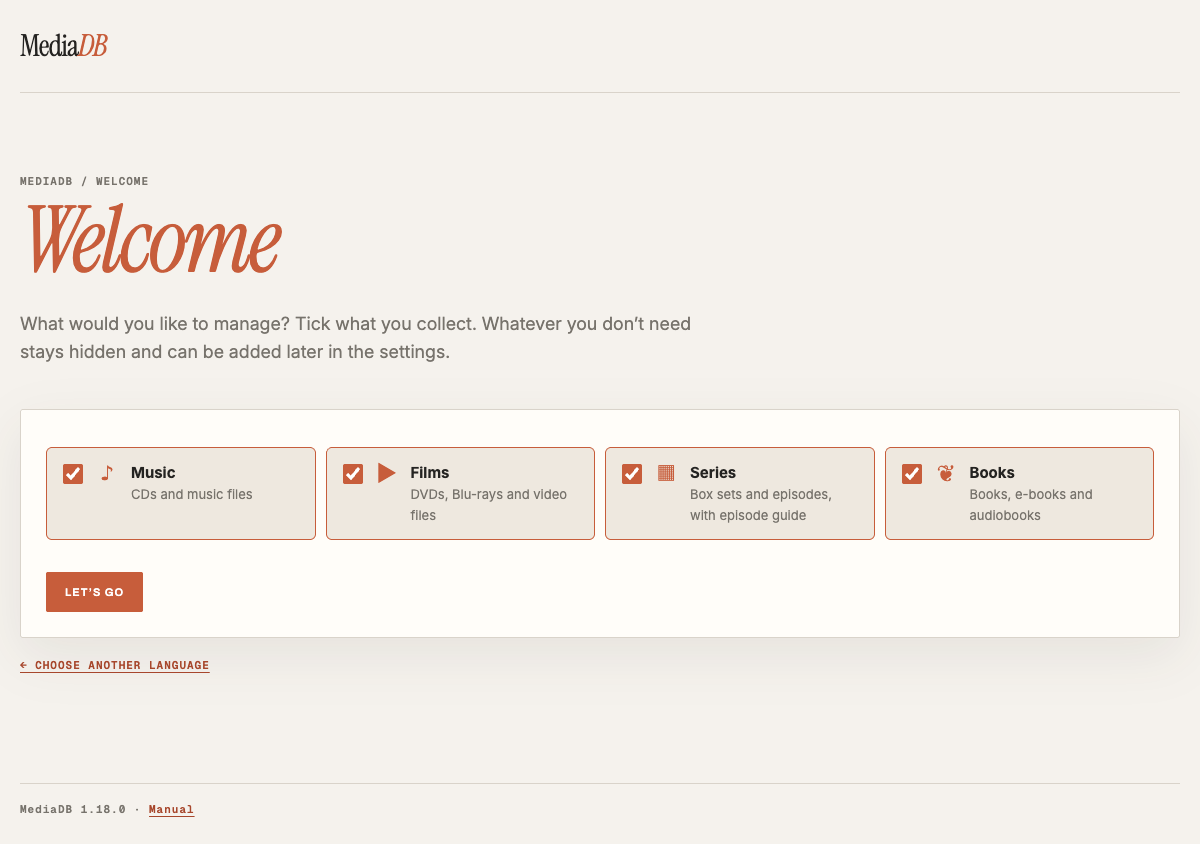
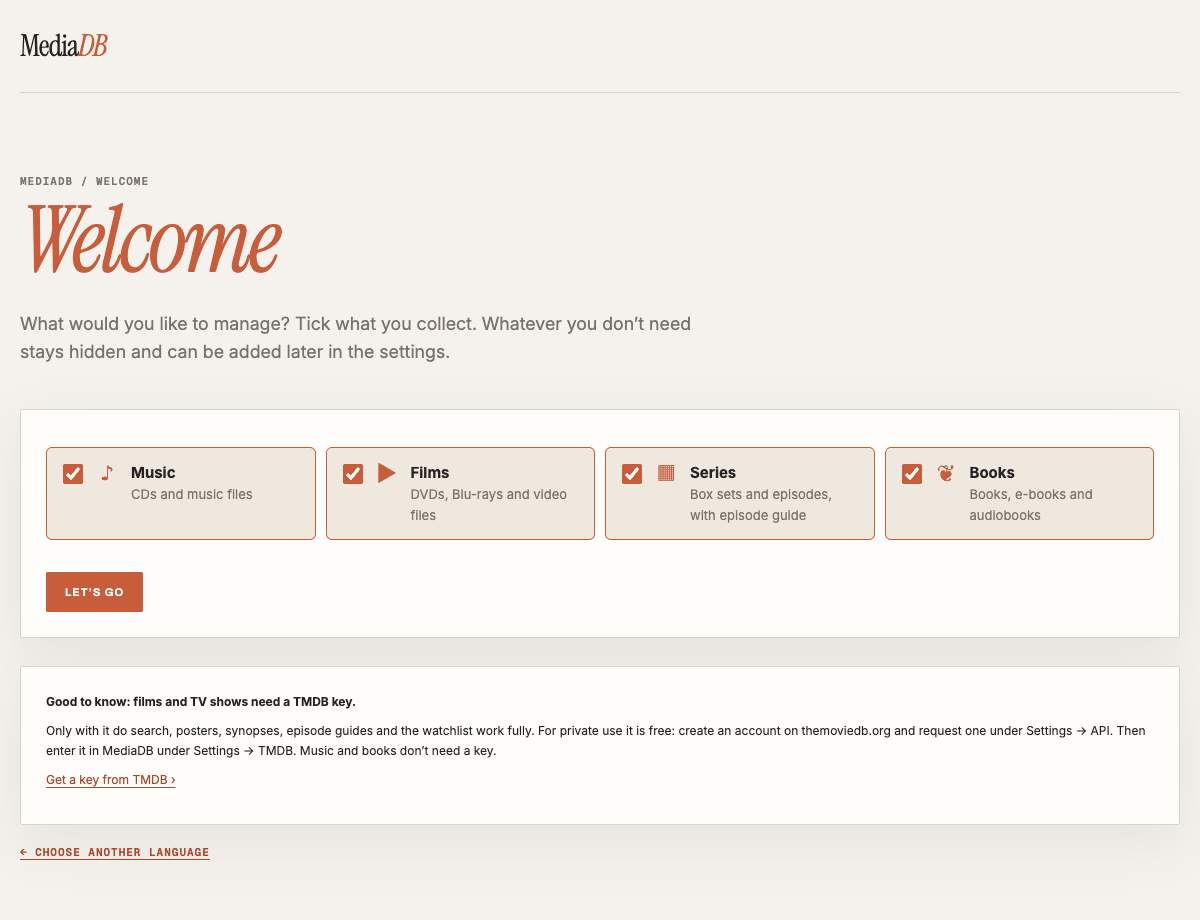
MediaDB 1.19.1 – Hinweis auf den TMDB-Schlüssel
Willkommensseite erklärt, dass Filme und Serien einen (für private
Nutzung kostenlosen) TMDB-Schlüssel brauchen. Deutlicherer Hinweis bei
Filmen, Serien und Merkliste mit Link zu TMDB. Ein abgelehnter Schlüssel
wird im Hintergrund erkannt und angezeigt (films_tmdb.key_state).

diff --git a/app/templates/settings.html b/app/templates/settings.html
@@ -63,7 +63,7 @@
 <section class="card" id="tmdb"{% if not area_on('watch') %} hidden{% endif %}>
  <h2>{{ _("TMDB (Filme und Serien)") }}</h2>
  <p class="help">{{ _("Kostenloser Schlüssel: Konto auf themoviedb.org anlegen, unter Einstellungen → API einen Schlüssel beantragen (Zweck: privat). Eintragen kannst du den „API-Schlüssel“ oder den langen „Lesezugriffstoken“.") }} <a href="https://www.themoviedb.org/settings/api" target="_blank" rel="noopener">themoviedb.org ›</a></p>
- <p class="status">{% if cfg.TMDB_API_KEY %}<span class="badge okb">{{ _("eingetragen") }}</span> <code>{{ masked.TMDB_API_KEY }}</code> {% if src.TMDB_API_KEY=='env' %}<span class="muted">{{ _("(aus .env)") }}</span>{% endif %}{% else %}<span class="badge missb">{{ _("fehlt") }}</span>{% endif %}</p>
+ <p class="status">{% if cfg.TMDB_API_KEY and tmdb_state == 'bad' %}<span class="badge missb">{{ _("abgelehnt") }}</span>{% elif cfg.TMDB_API_KEY %}<span class="badge okb">{{ _("eingetragen") }}</span> <code>{{ masked.TMDB_API_KEY }}</code> {% if src.TMDB_API_KEY=='env' %}<span class="muted">{{ _("(aus .env)") }}</span>{% endif %}{% else %}<span class="badge missb">{{ _("fehlt") }}</span>{% endif %}</p>
  <label for="tk">{{ cfg.TMDB_API_KEY and _("Neuen Schlüssel eintragen (leer lassen = unverändert)") or _("Schlüssel") }}</label>
  <input type="password" name="TMDB_API_KEY" id="tk" autocomplete="off" spellcheck="false">
  {% if src.TMDB_API_KEY=='app' %}<label class="checkbox"><input type="checkbox" name="TMDB_API_KEY_remove" value="1"> {{ _("Gespeicherten Schlüssel entfernen") }}</label>{% endif %}

diff --git a/app/templates/_tmdb_hint.html b/app/templates/_tmdb_hint.html
@@ -1,0 +1,5 @@
+{# Hinweis bei Filmen, Serien und Merkliste, solange kein gueltiger TMDB-Schluessel da ist #}
+{% if tmdb_state == 'missing' %}<div class="warn tmdbhint"><p><strong>{{ _("Für Filme und Serien fehlt noch der TMDB-Schlüssel.") }}</strong> {{ _("Ohne ihn findet die Suche nichts, und es gibt keine Poster, Inhaltsangaben und Episodenführer. Für die private Nutzung ist der Schlüssel kostenlos: Konto auf themoviedb.org anlegen und unter Einstellungen → API beantragen.") }}</p>
+ <p class="actions"><a class="btnlink" href="https://www.themoviedb.org/settings/api" target="_blank" rel="noopener">{{ _("Schlüssel bei TMDB holen ›") }}</a><a class="quietlink" href="{{ base }}/settings#tmdb">{{ _("In MediaDB eintragen ›") }}</a></p></div>
+{% elif tmdb_state == 'bad' %}<div class="warn tmdbhint"><p><strong>{{ _("TMDB lehnt den eingetragenen Schlüssel ab.") }}</strong> {{ _("Bis er stimmt, findet die Suche keine Filme und Serien. Bitte den Schlüssel in den Einstellungen prüfen; eingetragen werden kann der „API-Schlüssel“ oder der lange „Lesezugriffstoken“.") }}</p>
+ <p class="actions"><a class="btnlink" href="{{ base }}/settings#tmdb">{{ _("Zu den Einstellungen ›") }}</a><a class="quietlink" href="https://www.themoviedb.org/settings/api" target="_blank" rel="noopener">{{ _("Schlüssel bei TMDB ansehen ›") }}</a></p></div>{% endif %}

diff --git a/app/templates/series_add.html b/app/templates/series_add.html
@@ -2,7 +2,7 @@
 <p class="eyebrow">{{ _("MediaDB / Serien / Hinzufügen") }}</p><h1>{{ _("Serie *hinzufügen*") }}</h1>
 <p class="intro">{{ _("Per Barcode einer DVD- oder Blu-ray-Box, über die Titelsuche, aus einem Ordner mit Folgen oder von Hand. Der Episodenführer kommt von TMDB; daraus ergibt sich, welche Folgen fehlen.") }}</p>
 {% if message %}<div class="warn">{{ _(message) }}</div>{% endif %}
-{% if not tmdb_on %}<div class="warn">{{ _("Für Filmdaten und Poster wird ein kostenloser TMDB-Schlüssel gebraucht. Du trägst ihn unter Einstellungen ein.") }} <a href="{{ base }}/settings#tmdb">{{ _("Zu den Einstellungen ›") }}</a></div>{% endif %}
+{% include '_tmdb_hint.html' %}
 <div class="grid addgrid">
 <div class="card"><h3>{{ _("Mit Barcode") }}</h3><p>{{ _("Box scannen oder die Nummer eintippen. Steht im Produktnamen etwa „Staffel 1-3“, wird das übernommen.") }}{% if not barcode_lookup %} {{ _("Die Online-Barcode-Suche ist ausgeschaltet; gefunden werden nur Barcodes, die schon in deiner Sammlung stehen.") }}{% endif %}</p>
 <form method="post" action="{{ base }}/series/scan"><input autofocus class="wide" name="barcode" id="sbarcode" inputmode="numeric" placeholder="{{ _('Barcode scannen oder eingeben') }}" required>

diff --git a/app/templates/films_add.html b/app/templates/films_add.html
@@ -2,7 +2,7 @@
 <p class="eyebrow">{{ _("MediaDB / Filme / Hinzufügen") }}</p><h1>{{ _("Film *hinzufügen*") }}</h1>
 <p class="intro">{{ _("Per Barcode, über die Titelsuche, aus einem Ordner mit Filmdateien oder ganz von Hand. Gespeichert wird erst, wenn du einen Treffer bestätigst.") }}</p>
 {% if message %}<div class="warn">{{ _(message) }}</div>{% endif %}
-{% if not tmdb_on %}<div class="warn">{{ _("Für Filmdaten und Poster wird ein kostenloser TMDB-Schlüssel gebraucht. Du trägst ihn unter Einstellungen ein.") }} <a href="{{ base }}/settings#tmdb">{{ _("Zu den Einstellungen ›") }}</a></div>{% endif %}
+{% include '_tmdb_hint.html' %}
 <div class="grid addgrid">
 <div class="card"><h3>{{ _("Mit Barcode") }}</h3><p>{{ _("DVD, Blu-ray oder 4K UHD: Feld anklicken und scannen oder die Nummer eintippen.") }}{% if not barcode_lookup %} {{ _("Die Online-Barcode-Suche ist ausgeschaltet; gefunden werden nur Barcodes, die schon in deiner Sammlung stehen.") }}{% endif %}</p>
 <form method="post" action="{{ base }}/films/scan"><input autofocus class="wide" name="barcode" id="fbarcode" inputmode="numeric" placeholder="{{ _('Barcode scannen oder eingeben') }}" required>

diff --git a/app/templates/series_files.html b/app/templates/series_files.html
@@ -2,7 +2,7 @@
 <p class="eyebrow">{{ _("MediaDB / Serien / Hinzufügen") }}</p><h1>{{ _("Serien-*Import*") }}</h1>
 <p class="intro">{{ _("Wähle den Ordner mit deinen Serien, etwa auf dem NAS. Die Folgen werden nach Serie gruppiert und jede Serie einmal bei TMDB nachgeschlagen; gespeichert wird erst, wenn du unten auf „Übernehmen“ klickst. Erkannt werden Namen wie Serie.S01E01, 1x01, E01 und Staffelordner. Eine tvshow.nfo von Jellyfin oder Kodi macht die Zuordnung sicher.") }}</p>
 {% if message %}<div class="warn">{{ _(message) }}</div>{% endif %}
-{% if not tmdb_on %}<div class="warn">{{ _("Für Filmdaten und Poster wird ein kostenloser TMDB-Schlüssel gebraucht. Du trägst ihn unter Einstellungen ein.") }} <a href="{{ base }}/settings#tmdb">{{ _("Zu den Einstellungen ›") }}</a></div>{% endif %}
+{% include '_tmdb_hint.html' %}
 
 {% if job.state in ('scanning','applying') %}
 {% set PH = {'collect': _t('Schritt 1 von 3: Ordner durchsuchen'), 'parse': _t('Schritt 2 von 3: Dateinamen auswerten'), 'tmdb': _t('Schritt 3 von 3: Serien bei TMDB suchen'), 'apply': _t('Speichere, lade Episodenführer und lese Dateien …')} %}

diff --git a/app/templates/films_list.html b/app/templates/films_list.html
@@ -3,7 +3,7 @@
 <h1>{% if current_list %}{{ current_list.name }}{% elif coll %}{{ collection_name or _("Filmreihe") }}{% else %}{{ _("*Filme*") }}{% endif %}</h1>
 {% if current_list %}<p class="muted"><a href="{{ base }}/films/lists">{{ _("← Alle eigenen Listen") }}</a></p>{% elif coll %}<p class="muted"><a href="{{ base }}/films/collections">{{ _("← Alle Filmreihen") }}</a></p>{% endif %}
 {% if message %}<div class="ok">{{ _(message) }}</div>{% endif %}
-{% if not tmdb_on %}<div class="warn">{{ _("Für Filmdaten und Poster wird ein kostenloser TMDB-Schlüssel gebraucht. Du trägst ihn unter Einstellungen ein.") }} <a href="{{ base }}/settings#tmdb">{{ _("Zu den Einstellungen ›") }}</a></div>{% endif %}
+{% include '_tmdb_hint.html' %}
 {% set active='' %}{% include '_films_nav.html' %}
 <form method="get" action="{{ base }}/films" class="filmfilter">
  {% if view!='all' %}<input type="hidden" name="view" value="{{ view }}">{% endif %}{% if list_id %}<input type="hidden" name="list" value="{{ list_id }}">{% endif %}{% if coll %}<input type="hidden" name="collection" value="{{ coll }}">{% endif %}

diff --git a/static/style.css b/static/style.css
@@ -311,3 +311,4 @@ nav a.navhelp:not(.brand){display:inline-flex;align-items:center;justify-content
 .resq{border-left:2px solid var(--accent);padding:2px 0 2px 12px;margin:12px 0}.resq p{margin:4px 0}.resq .badge{margin-left:4px}
 .ok.addmore{display:flex;align-items:center;justify-content:space-between;gap:12px 20px;flex-wrap:wrap}
 .warn.archived h3{margin-bottom:10px}.warn.archived h3 em{color:var(--accent);font-style:italic}.warn.archived ul{margin:6px 0 0;padding-left:20px;border:0}.warn.archived li{border:0;padding:3px 0}.warn.archived .actions{margin-top:16px}.quietlink{font:600 11px Archivo,sans-serif;text-transform:uppercase;letter-spacing:.1em;color:var(--muted);text-decoration:none;padding:12px 4px}.quietlink:hover{color:var(--accent)}.cand.have{border-color:var(--accent)}.badge.have{color:var(--accent);border-color:var(--accent);margin-left:0;text-decoration:none}
+.tmdbhint p{margin:0}.tmdbhint .actions{margin-top:14px}.tmdbnote{margin-top:28px}.tmdbnote p{margin:0 0 10px}

diff --git a/app/templates/films_files.html b/app/templates/films_files.html
@@ -2,7 +2,7 @@
 <p class="eyebrow">{{ _("MediaDB / Filme / Hinzufügen") }}</p><h1>{{ _("Film-*Import*") }}</h1>
 <p class="intro">{{ _("Wähle den Ordner mit deinen Filmen. Zuerst wird nur gelesen und bei TMDB nachgeschlagen; gespeichert wird erst, wenn du unten auf „Übernehmen“ klickst. Liegt neben einem Film eine .nfo-Datei von Jellyfin oder Kodi, ist die Zuordnung sicher. Sonst helfen Namen wie „Titel (Jahr)“.") }}</p>
 {% if message %}<div class="warn">{{ _(message) }}</div>{% endif %}
-{% if not tmdb_on %}<div class="warn">{{ _("Für Filmdaten und Poster wird ein kostenloser TMDB-Schlüssel gebraucht. Du trägst ihn unter Einstellungen ein.") }} <a href="{{ base }}/settings#tmdb">{{ _("Zu den Einstellungen ›") }}</a></div>{% endif %}
+{% include '_tmdb_hint.html' %}
 
 {% if job.state in ('scanning','applying') %}
 <div class="card"><h3>{{ _('Lese Dateien und frage TMDB …') if job.state=='scanning' else _('Speichere und lade Poster …') }}</h3>

diff --git a/app/templates/watchlist.html b/app/templates/watchlist.html
@@ -6,7 +6,7 @@
 <p class="intro">{{ _("Neue Staffeln und Folgen deiner Serien und alles, was du dir vorgemerkt hast, etwa Tipps aus Videos. Termine und Streamingdienste kommen von TMDB und werden einmal am Tag aufgefrischt.") }}</p>
 {% if message %}<div class="ok">{{ _(message) }}</div>{% endif %}
 {% if upd.error %}<div class="warn">{{ _(upd.error) }}</div>{% endif %}
-{% if not tmdb_on %}<div class="warn">{{ _("Für Filmdaten und Poster wird ein kostenloser TMDB-Schlüssel gebraucht. Du trägst ihn unter Einstellungen ein.") }} <a href="{{ base }}/settings#tmdb">{{ _("Zu den Einstellungen ›") }}</a></div>{% endif %}
+{% include '_tmdb_hint.html' %}
 
 <div class="updline">
 {% if upd.state == 'running' %}<span id="updtxt">{{ _("Aktualisiere: § von §", upd.done, upd.total) }}</span> <progress id="updbar" max="{{ upd.total or 1 }}" value="{{ upd.done }}"></progress>

diff --git a/app/templates/welcome.html b/app/templates/welcome.html
@@ -22,6 +22,9 @@
  </div>
  <button>{{ _("Los geht's") }}</button>
 </form>
+{% if tmdb_state == 'missing' %}<div class="card tmdbnote"><p><strong>{{ _("Gut zu wissen: Filme und Serien brauchen einen TMDB-Schlüssel.") }}</strong></p>
+ <p>{{ _("Erst mit ihm funktionieren Suche, Poster, Inhaltsangaben, Episodenführer und Merkliste vollständig. Für die private Nutzung ist er kostenlos: Konto auf themoviedb.org anlegen und unter Einstellungen → API beantragen. Danach trägst du ihn in MediaDB unter Einstellungen → TMDB ein. Musik und Bücher brauchen keinen Schlüssel.") }}</p>
+ <p><a href="https://www.themoviedb.org/settings/api" target="_blank" rel="noopener">{{ _("Schlüssel bei TMDB holen ›") }}</a></p></div>{% endif %}
 <p class="muted"><a href="{{ base }}/willkommen">{{ _("← Andere Sprache wählen") }}</a></p>
 {% endif %}
 {% endblock %}

diff --git a/app/templates/series_list.html b/app/templates/series_list.html
@@ -2,7 +2,7 @@
 <p class="eyebrow">{{ _("MediaDB / Serien") }}</p>
 <h1>{{ _("*Serien*") }}</h1>
 {% if message %}<div class="ok">{{ _(message) }}</div>{% endif %}
-{% if not tmdb_on %}<div class="warn">{{ _("Für Filmdaten und Poster wird ein kostenloser TMDB-Schlüssel gebraucht. Du trägst ihn unter Einstellungen ein.") }} <a href="{{ base }}/settings#tmdb">{{ _("Zu den Einstellungen ›") }}</a></div>{% endif %}
+{% include '_tmdb_hint.html' %}
 {% set active='' %}{% include '_series_nav.html' %}
 <form method="get" action="{{ base }}/series" class="filmfilter">
  {% if view!='all' %}<input type="hidden" name="view" value="{{ view }}">{% endif %}

diff --git a/app/films_tmdb.py b/app/films_tmdb.py
@@ -34,6 +34,25 @@ def configured():
     return bool(api_key())
 
 
+KEY_STATE = {'key': None, 'state': 'unknown'}  # Ergebnis der letzten Anfrage mit diesem Schluessel
+
+
+def _mark(key, state):
+    KEY_STATE.update(key=key, state=state)
+
+
+def key_state():
+    """'missing', 'ok', 'bad' (TMDB lehnt ab) oder 'unknown' (noch nicht geprueft, TMDB nicht erreichbar).
+    Ein neuer Schluessel wird einmal im Hintergrund geprueft, die Seite wartet nicht darauf."""
+    key = api_key()
+    if not key:
+        return 'missing'
+    if KEY_STATE['key'] != key:
+        _mark(key, 'unknown')
+        threading.Thread(target=tmdb_get, args=('/configuration',), daemon=True).start()
+    return KEY_STATE['state']
+
+
 def _http_get(url, params=None, headers=None, timeout=15):
     """Einzige Stelle mit Netzwerkzugriff (Tests ersetzen diese Funktion)."""
     r = requests.get(url, params=params, headers=headers, timeout=timeout)
@@ -61,12 +80,14 @@ def tmdb_get(path, **params):
     except Exception as e:
         return None, f'TMDB nicht erreichbar ({e.__class__.__name__}).'
     if code == 401:
+        _mark(key, 'bad')
         return None, 'TMDB lehnt den Schlüssel ab. Bitte TMDB_API_KEY prüfen.'
     if code == 429:
         time.sleep(2)
         return tmdb_get(path, **params)
     if code != 200 or data is None:
         return None, f'TMDB antwortet mit Fehler {code}.'
+    _mark(key, 'ok')
     return data, None
 
 
